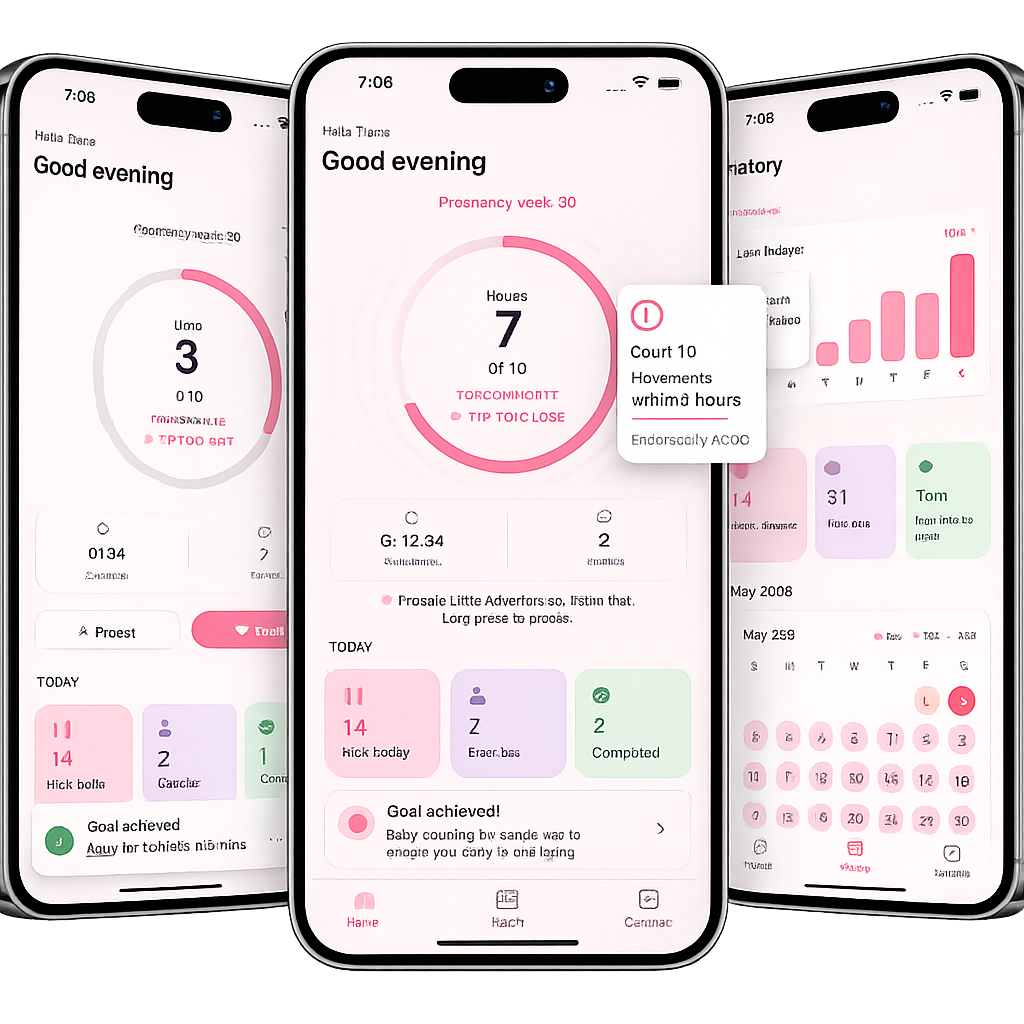
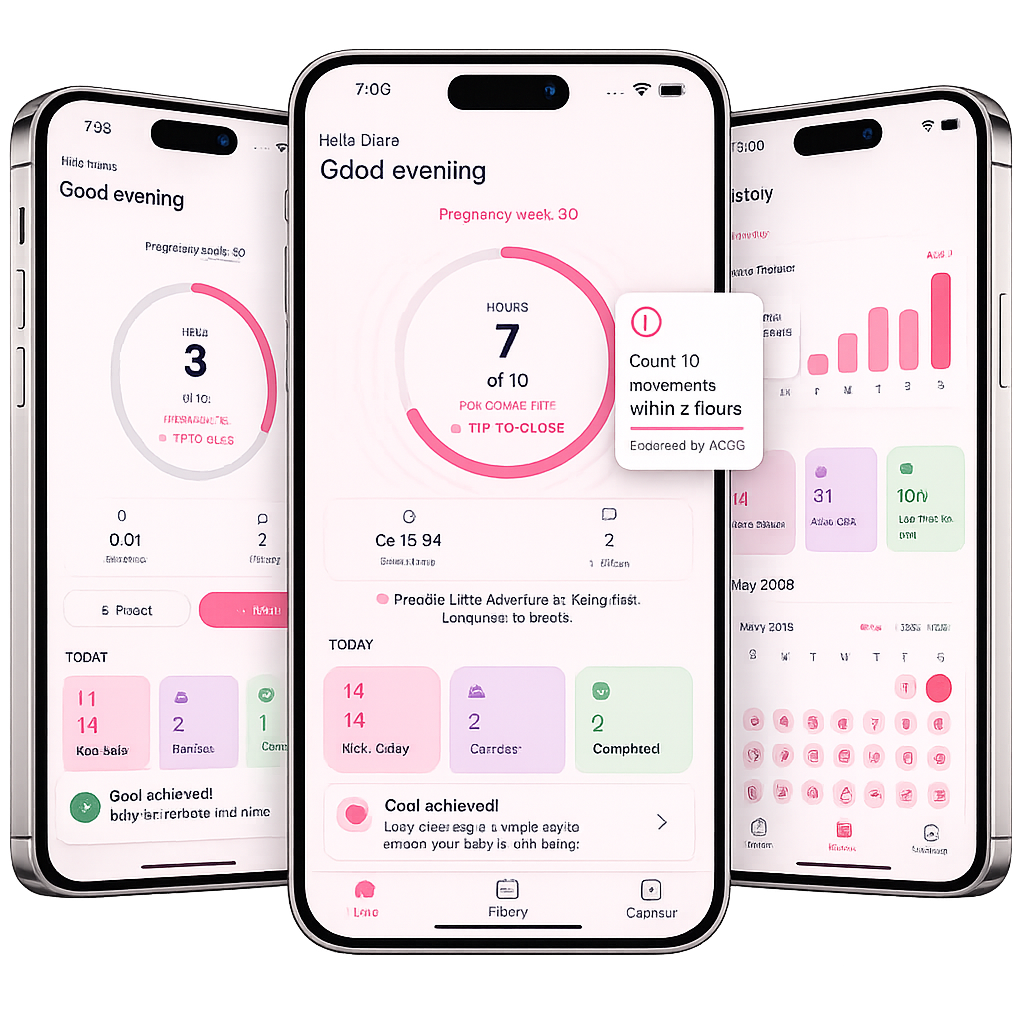
responsive navbar

diff --git a/app/globals.css b/app/globals.css
@@ -23,14 +23,18 @@ ul { list-style: none; }
   margin: 0 auto;
   padding: 0 20px;
 }
-/* ── Navigation ── */
+
+/* ───────────────────────────── */
+/* Navigation */
+/* ───────────────────────────── */
+
 .navbar {
   position: relative;
   top: 0;
   width: 100%;
   background: rgba(30, 41, 59, 0.95);
-  backdrop-filter: blur(10px);
-  border-bottom: 1px solid rgba(148, 163, 184, 0.2);
+  backdrop-filter: blur(14px);
+  border-bottom: 1px solid rgba(148, 163, 184, 0.15);
   z-index: 1000;
   padding: 1rem 0;
 }
@@ -39,69 +43,222 @@ ul { list-style: none; }
   max-width: 1200px;
   margin: 0 auto;
   padding: 0 20px;
+
   display: flex;
-  justify-content: space-between;
   align-items: center;
+  justify-content: space-between;
+
+  position: relative;
 }
+
+/* ───────────────────────────── */
+/* Logo */
+/* ───────────────────────────── */
 
 .nav-logo {
   display: flex;
   align-items: center;
   gap: 0.75rem;
   text-decoration: none;
+  z-index: 1002;
 }
 
-.nav-logo img { 
-  width: 32px; 
-  height: 32px; 
-  border-radius: 6px; 
+.nav-logo img {
+  width: 34px;
+  height: 34px;
+  border-radius: 8px;
+  object-fit: cover;
 }
 
-.nav-logo h2 { 
-  color: white; 
-  font-weight: 700; 
-  font-size: 1.5rem; 
-  margin: 0; 
+.nav-logo h2 {
+  color: white;
+  font-weight: 700;
+  font-size: 1.45rem;
+  margin: 0;
+  letter-spacing: -0.02em;
 }
 
-.nav-menu { 
-  display: flex; 
-  align-items: center; 
-  gap: 2rem; 
+/* ───────────────────────────── */
+/* Desktop Menu */
+/* ───────────────────────────── */
+
+.nav-menu {
+  display: flex;
+  align-items: center;
+  gap: 2rem;
 }
 
 .nav-link {
   text-decoration: none;
   color: #f8fafc;
   font-weight: 500;
-  transition: color 0.3s ease;
+  transition: all 0.3s ease;
+  position: relative;
 }
 
-.nav-link:hover { 
-  color: #5DADE2; 
+.nav-link:hover {
+  color: #5dade2;
 }
 
 .nav-btn {
-  background: #5DADE2;
+  background: #5dade2;
   color: white !important;
-  padding: 0.75rem 1.5rem;
+  padding: 0.8rem 1.5rem;
   text-decoration: none;
-  border-radius: 8px;
+  border-radius: 10px;
   font-weight: 600;
-  transition: background 0.3s ease;
+  transition: all 0.3s ease;
   display: inline-block;
 }
 
-.nav-btn:hover { background: #4A94C7; }
+.nav-btn:hover {
+  background: #4a94c7;
+  transform: translateY(-1px);
+}
+
+/* ───────────────────────────── */
+/* Hamburger Button */
+/* ───────────────────────────── */
 
 .mobile-menu-btn {
+  width: 44px;
+  height: 44px;
+
   display: none;
-  background: none;
+
+  position: relative;
+  z-index: 2000;
+
+  background: transparent;
   border: none;
-  font-size: 1.5rem;
-  color: white;
+  outline: none;
   cursor: pointer;
+
+  padding: 0;
 }
+
+/* Hamburger Lines */
+
+.mobile-menu-btn span {
+  position: absolute;
+  left: 10px;
+
+  width: 24px;
+  height: 2.5px;
+
+  background: #ffffff;
+
+  border-radius: 999px;
+
+  transition: all 0.3s ease;
+}
+
+/* Individual Line Positions */
+
+.mobile-menu-btn span:nth-child(1) {
+  top: 14px;
+}
+
+.mobile-menu-btn span:nth-child(2) {
+  top: 21px;
+}
+
+.mobile-menu-btn span:nth-child(3) {
+  top: 28px;
+}
+
+/* Active Animation */
+
+.mobile-menu-btn.active span:nth-child(1) {
+  top: 21px;
+  transform: rotate(45deg);
+}
+
+.mobile-menu-btn.active span:nth-child(2) {
+  opacity: 0;
+}
+
+.mobile-menu-btn.active span:nth-child(3) {
+  top: 21px;
+  transform: rotate(-45deg);
+}
+
+/* ───────────────────────────── */
+/* Mobile Responsive */
+/* ───────────────────────────── */
+
+@media (max-width: 768px) {
+  .mobile-menu-btn {
+    display: block;
+  }
+
+  .nav-menu {
+    position: absolute;
+    top: calc(100% + 14px);
+    right: 20px;
+
+    width: 260px;
+
+    background: rgba(15, 23, 42, 0.98);
+    backdrop-filter: blur(20px);
+
+    border: 1px solid rgba(148, 163, 184, 0.15);
+    border-radius: 18px;
+
+    padding: 1.25rem;
+
+    display: flex;
+    flex-direction: column;
+    align-items: flex-start;
+    gap: 1rem;
+
+    opacity: 0;
+    visibility: hidden;
+
+    transform: translateY(-10px) scale(0.98);
+
+    transition: all 0.3s ease;
+  }
+
+  .nav-menu.open {
+    opacity: 1;
+    visibility: visible;
+    transform: translateY(0) scale(1);
+  }
+
+  .nav-link {
+    width: 100%;
+    padding: 0.5rem 0;
+    font-size: 1rem;
+  }
+
+  .nav-btn {
+    width: 100%;
+    text-align: center;
+    margin-top: 0.5rem;
+  }
+}
+
+/* ───────────────────────────── */
+/* Small Phones */
+/* ───────────────────────────── */
+
+@media (max-width: 480px) {
+  .nav-container {
+    padding: 0 16px;
+  }
+
+  .nav-logo h2 {
+    font-size: 1.25rem;
+  }
+
+  .nav-menu {
+    width: calc(100vw - 32px);
+    right: 16px;
+  }
+}
+
+
 
 /* ── Animations ── */
 @keyframes fadeInUp {

diff --git a/app/components/landing/Navbar.tsx b/app/components/landing/Navbar.tsx
@@ -1,21 +1,69 @@
 "use client";
+
 import { useState } from "react";
 
 export function Navbar() {
   const [menuOpen, setMenuOpen] = useState(false);
+
+  const closeMenu = () => {
+    setMenuOpen(false);
+  };
+
   return (
     <nav className="navbar">
       <div className="nav-container">
+        {/* Logo */}
         <a className="nav-logo" href="#">
           <img src="playstore.png" alt="Bumpsy App Icon" />
           <h2>Bumpsy</h2>
         </a>
-        <button className="mobile-menu-btn" onClick={() => setMenuOpen(!menuOpen)} aria-label="Toggle menu">☰</button>
-        <div className={`nav-menu${menuOpen ? " open" : ""}`} style={menuOpen ? undefined : undefined}>
-          <a className="nav-link" href="#features">Features</a>
-          <a className="nav-link" href="#why">Why Bumpsy</a>
-          <a className="nav-link" href="#faq">FAQ</a>
-          <a className="nav-btn" href="https://apps.apple.com/us/app/bumpi-kicks-baby-kick-counter/id6765884727" target="_blank" rel="noopener noreferrer">Download App</a>
+
+        {/* Hamburger Button */}
+        <button
+          className={`mobile-menu-btn ${menuOpen ? "active" : ""}`}
+          onClick={() => setMenuOpen(!menuOpen)}
+          aria-label="Toggle menu"
+        >
+          <span></span>
+          <span></span>
+          <span></span>
+        </button>
+
+        {/* Navigation Menu */}
+        <div className={`nav-menu ${menuOpen ? "open" : ""}`}>
+          <a
+            className="nav-link"
+            href="#features"
+            onClick={closeMenu}
+          >
+            Features
+          </a>
+
+          <a
+            className="nav-link"
+            href="#why"
+            onClick={closeMenu}
+          >
+            Why Bumpsy
+          </a>
+
+          <a
+            className="nav-link"
+            href="#faq"
+            onClick={closeMenu}
+          >
+            FAQ
+          </a>
+
+          <a
+            className="nav-btn"
+            href="https://apps.apple.com/us/app/bumpi-kicks-baby-kick-counter/id6765884727"
+            target="_blank"
+            rel="noopener noreferrer"
+            onClick={closeMenu}
+          >
+            Download App
+          </a>
         </div>
       </div>
     </nav>
